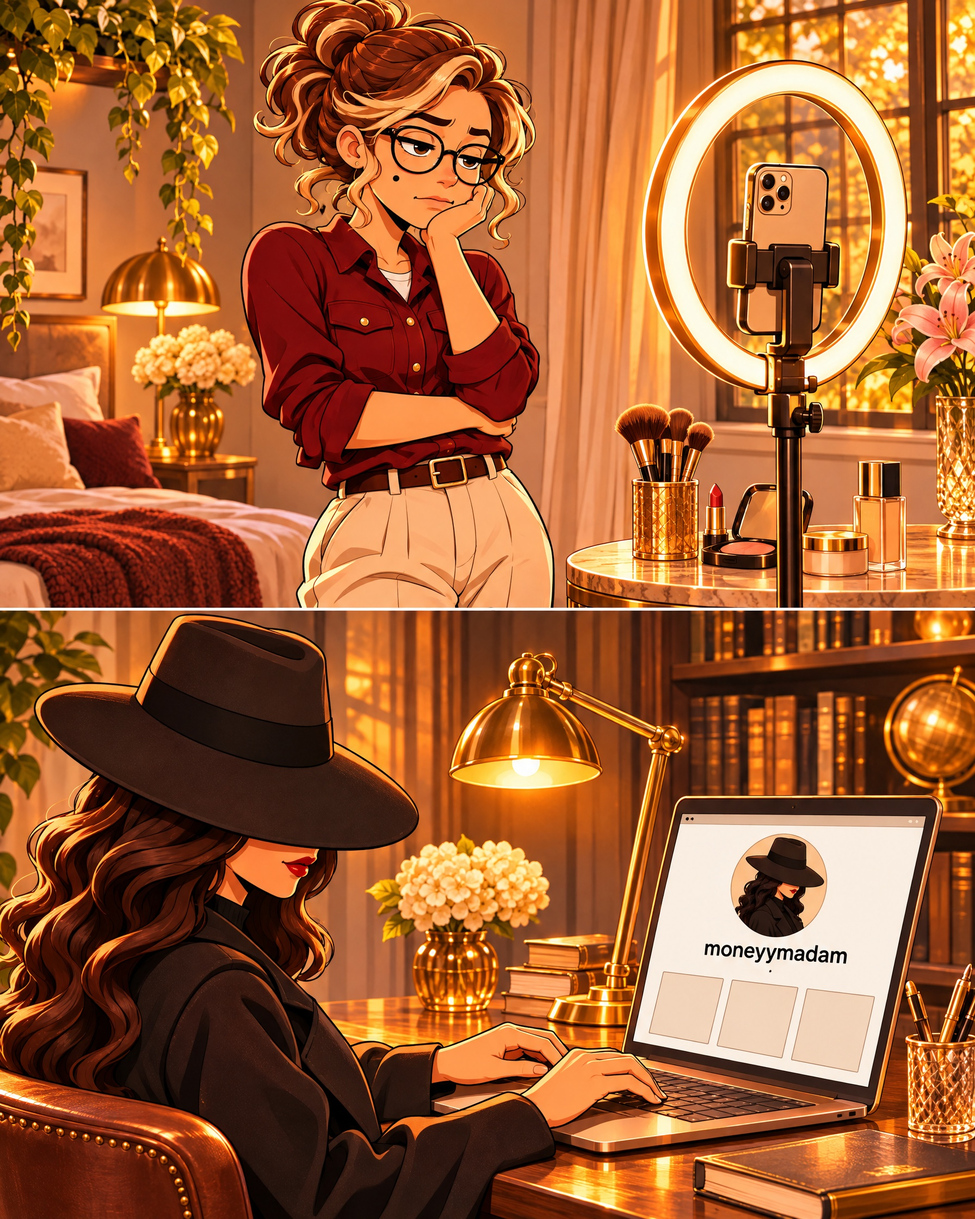
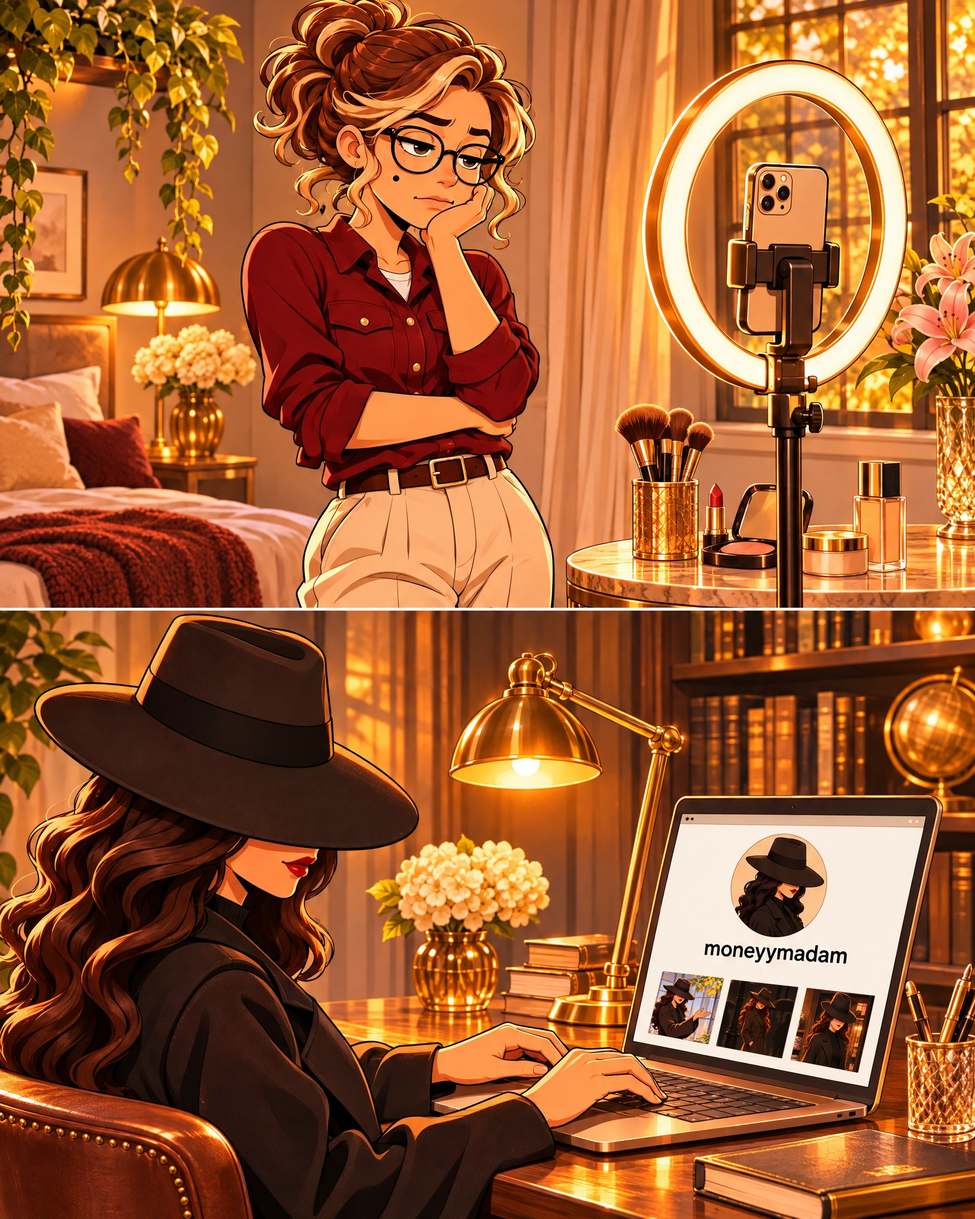
Post6 sayfa 1: laptop ekranındaki karelere şapkalı kadının gönderileri yerleştirildi
Claude-Session: https://claude.ai/code/session_01DJnELUg2datGduMzoawH2g

Changed region(s): [[0.6562, 0.7812, 0.9062, 0.875]]

diff --git a/dark-money/tools/post6_laptop_gonderiler.py b/dark-money/tools/post6_laptop_gonderiler.py
@@ -1,0 +1,62 @@
+"""Gönderi (post6) sayfa 1: laptop ekranındaki 3 boş kareye şapkalı kadının kendi gönderilerini yerleştirir.
+Kaynak: yalnızca şapkalı kadın görünecek şekilde kırpılmış yazısız sahneler (Gönderi 4 s4, Gönderi 3 s1, Gönderi 1 s1).
+Girdi : post6/yazisiz/kaynak/sayfa1_bos_ekran.jpg   Çıktı: post6/yazisiz/sayfa1.jpg
+"""
+import numpy as np
+from PIL import Image, ImageDraw, ImageFilter
+R="/home/user/Diyetisyen-Web/dark-money/images/"
+BASE=R+"post6/yazisiz/kaynak/sayfa1_bos_ekran.jpg"
+OUT=R+"post6/yazisiz/sayfa1.jpg"
+# ekrandaki 3 karenin köşeleri (sol-üst, sağ-üst, sağ-alt, sol-alt), soldan sağa
+QUADS=[[(1220,1788),(1327,1800),(1300,1916),(1194,1896)],
+       [(1346,1803),(1464,1816),(1435,1942),(1319,1920)],
+       [(1485,1818),(1605,1832),(1575,1968),(1456,1945)]]
+# şapkalı kadını gösteren kare kırpmalar (x0,y0,x1,y1)
+SRC=[(R+"post4/yazisiz/sayfa4.jpg",(851,1131,1523,1803)),
+     (R+"post3/yazisiz/sayfa1.jpg",(1322,168,1792,638)),
+     (R+"post1/yazisiz/sayfa1.jpg",(1121,607,1744,1230))]
+
+def coeffs(dst,S):
+    src=[(0,0),(S,0),(S,S),(0,S)]
+    A=[];b=[]
+    for (x,y),(u,v) in zip(dst,src):
+        A.append([x,y,1,0,0,0,-u*x,-u*y]); b.append(u)
+        A.append([0,0,0,x,y,1,-v*x,-v*y]); b.append(v)
+    return np.linalg.solve(np.array(A,float),np.array(b,float)).tolist()
+
+def expand(q,px):
+    cx=sum(p[0] for p in q)/4; cy=sum(p[1] for p in q)/4; out=[]
+    for x,y in q:
+        dx,dy=x-cx,y-cy; n=(dx*dx+dy*dy)**.5
+        out.append((x+dx/n*px,y+dy/n*px))
+    return out
+
+def clean_tail(im):
+    # 3. kırpmadaki baloncuk kuyruğu ucunu arka plandan örnekle boyayarak temizle
+    a=np.asarray(im).astype(float)
+    for y in range(0,42):
+        a[y,419:486]=a[y,486:502].mean(axis=0)
+    out=Image.fromarray(a.astype("uint8"))
+    m=Image.new("L",im.size,0); ImageDraw.Draw(m).rectangle((417,0,488,43),fill=255)
+    blur=out.filter(ImageFilter.GaussianBlur(1.2))
+    return Image.composite(blur,im,m.filter(ImageFilter.GaussianBlur(1.0)))
+
+base=Image.open(BASE).convert("RGB")
+# hesap adının altındaki istenmeyen küçük noktayı sil (yandaki beyaz ekran satırlarından örnekle)
+_a=np.asarray(base).astype(float)
+for y in range(1779,1790):
+    _a[y,1408:1423]=_a[y,1426:1441].mean(axis=0)
+base=Image.fromarray(_a.astype("uint8"))
+for q,(path,box) in zip(QUADS,SRC):
+    crop=Image.open(path).convert("RGB").crop(box)
+    if "post1" in path: crop=clean_tail(crop)
+    S=260
+    crop=crop.resize((S,S),Image.LANCZOS)
+    dq=expand(q,3.5)
+    layer=crop.transform(base.size,Image.PERSPECTIVE,coeffs(dq,S),Image.BICUBIC)
+    mask=Image.new("L",(base.size[0]*3,base.size[1]*3),0)
+    ImageDraw.Draw(mask).polygon([(x*3,y*3) for x,y in dq],fill=255)
+    mask=mask.resize(base.size,Image.LANCZOS)
+    base=Image.composite(layer,base,mask)
+base.save(OUT,quality=95)
+print("ok",OUT)
